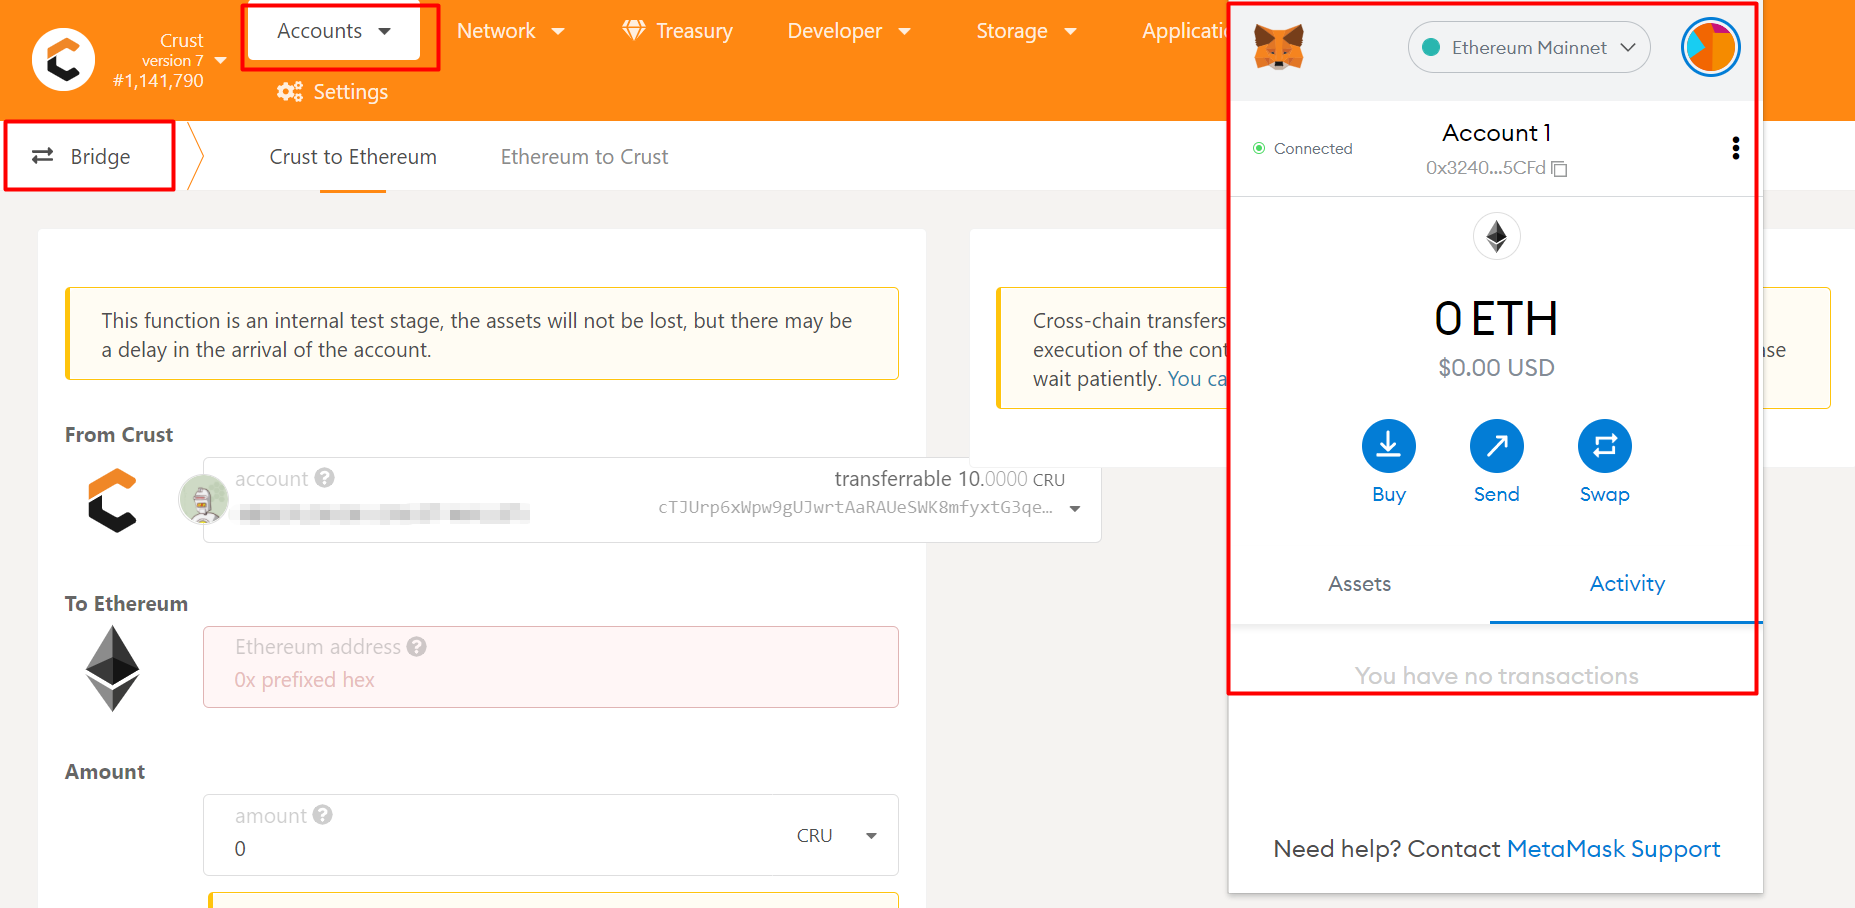
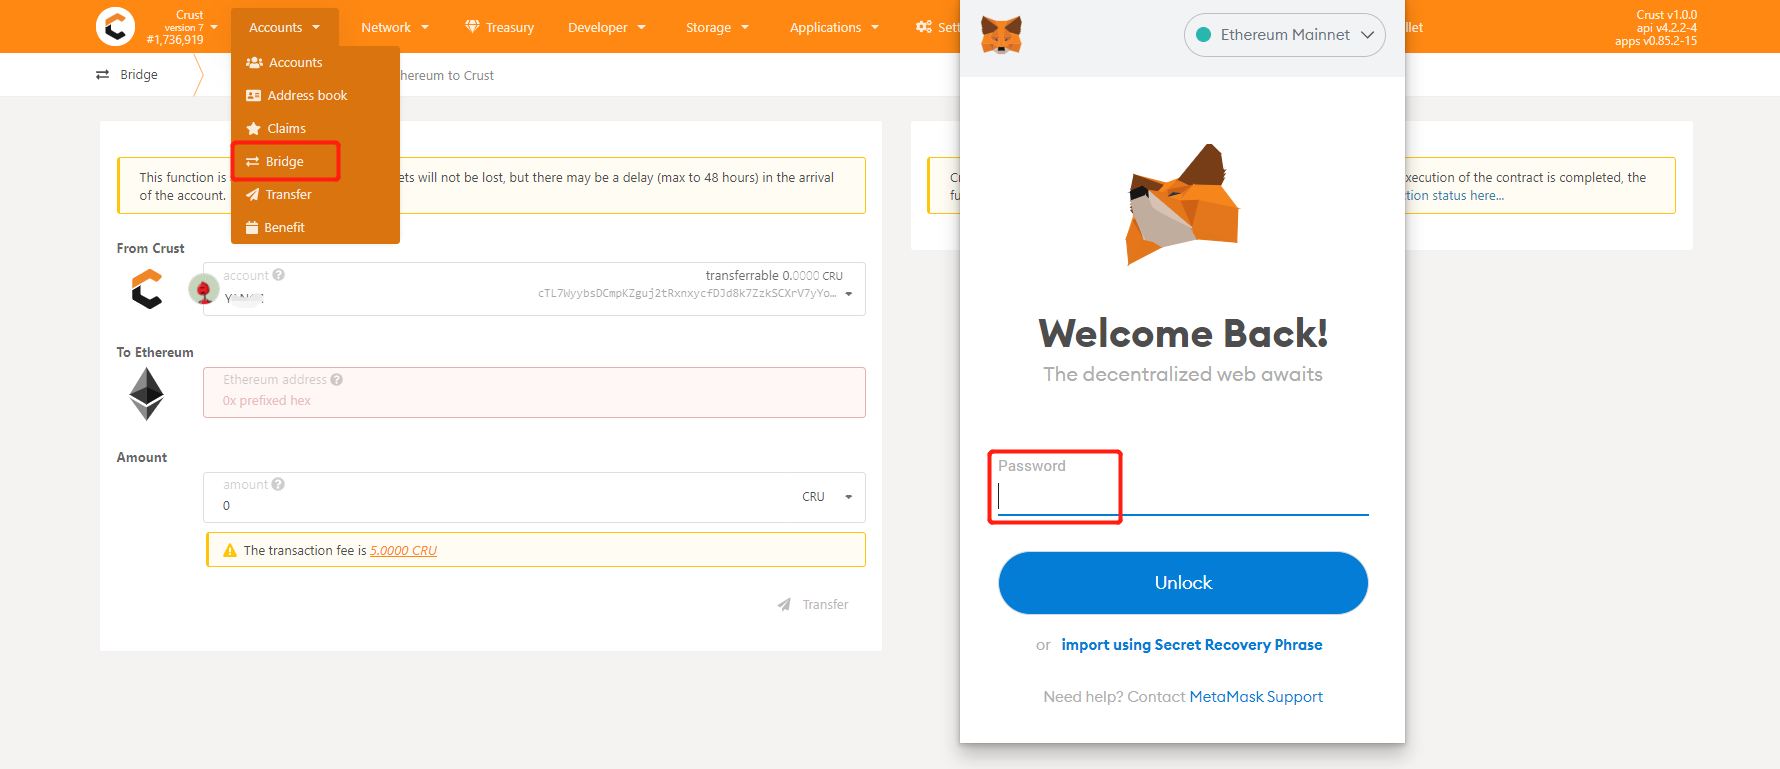
update-mainnet-bridge-fee

diff --git a/docs/bridge.md b/docs/bridge.md
@@ -33,7 +33,7 @@ Choose “Crust to Ethereum”, enter the Ethereum address to receive your CRU i
 
 ![toEthTransfer](assets/general/toEthTransfer.png)
 
-Please note that the transaction is automatically executed through a smart contract, and 3CRU is charged as a transaction fee. Please wait patiently as there might be a certain delay. You can click the link on the right side to check the transaction status.
+Please note that the transaction is automatically executed through a smart contract, and 5CRU is charged as a transaction fee. Please wait patiently as there might be a certain delay. You can click the link on the right side to check the transaction status.
 
 ![toEthCheck](assets/general/toEthCheck.png)
 
